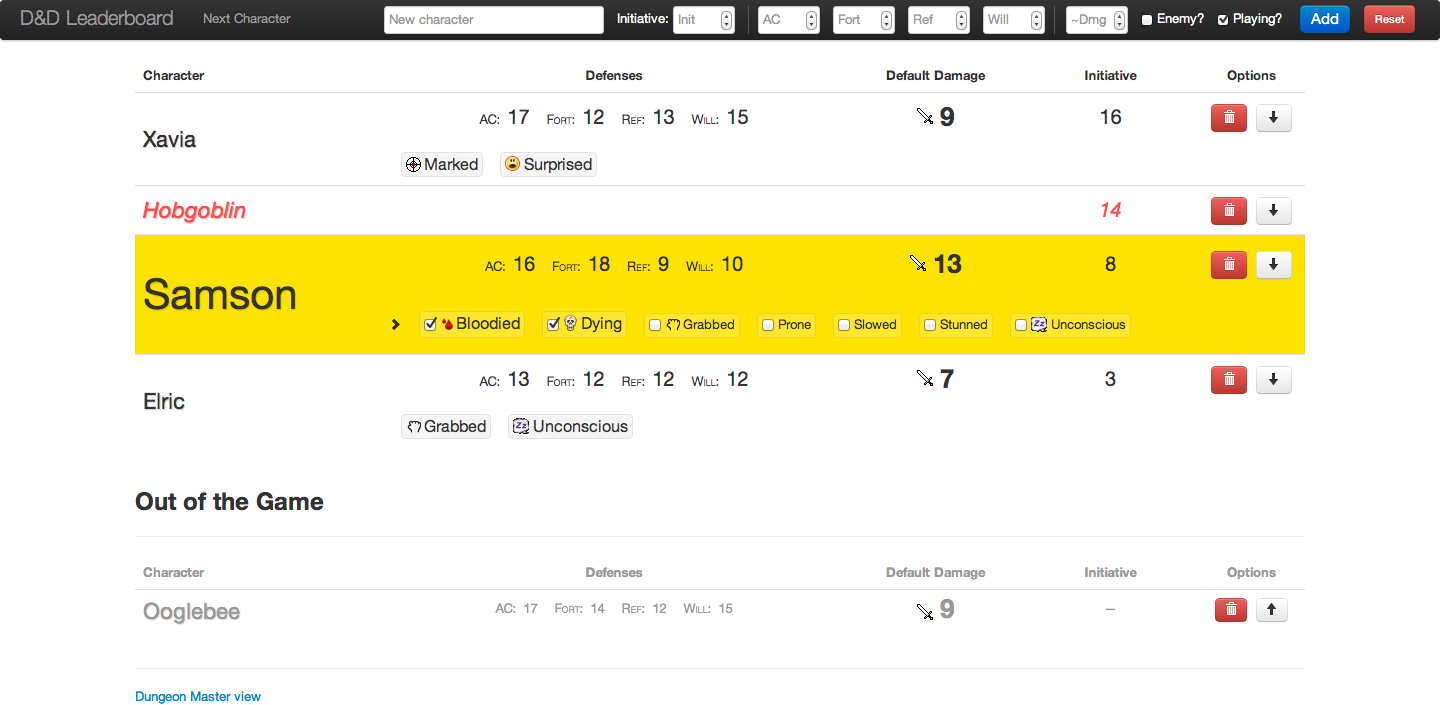
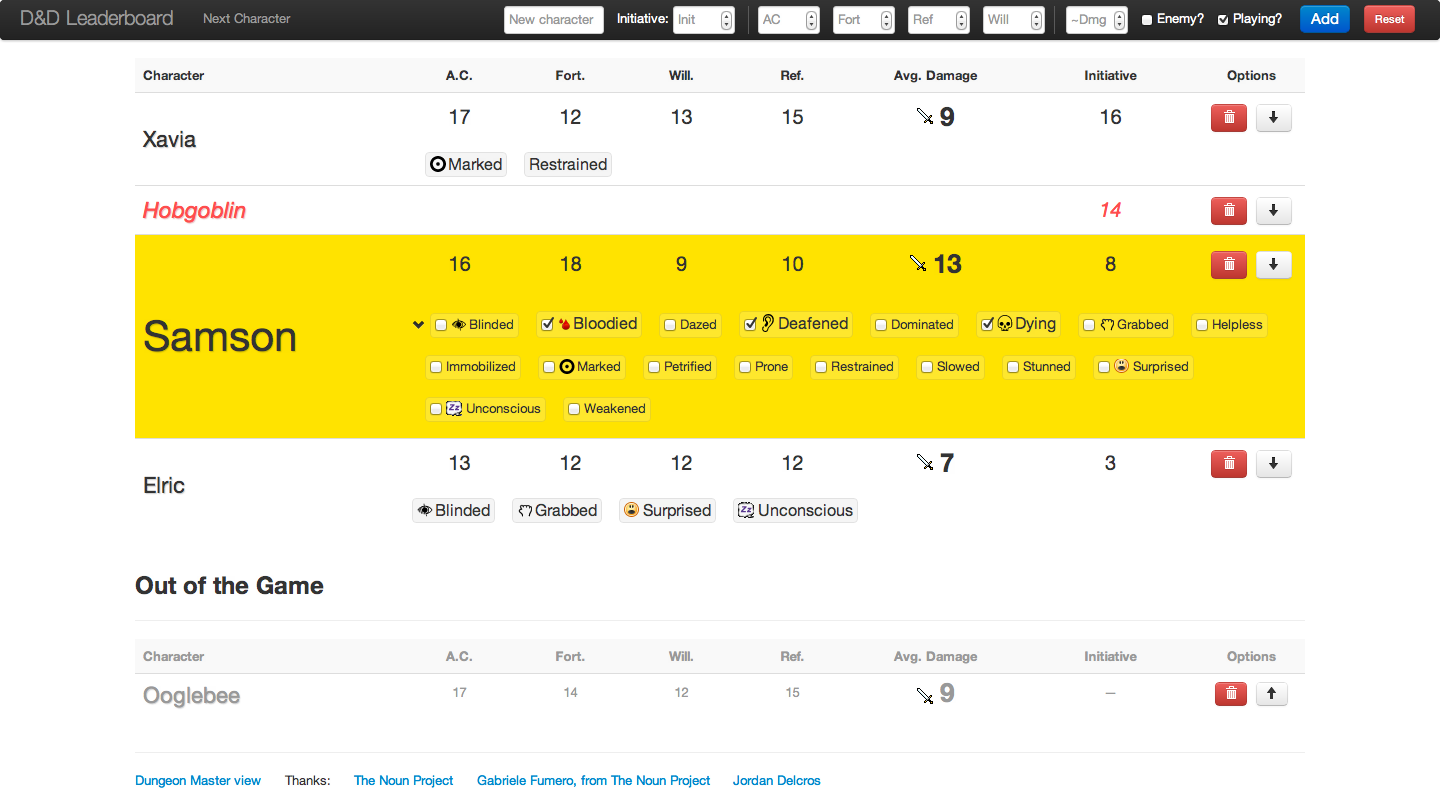
Adding DM view screenshot
Also updating regular screenshot.

diff --git a/README.md b/README.md
@@ -1,6 +1,12 @@
 # Dungeons and Dragons Leaderboard
 
+View for regular players:
+
 ![Dungeons and Dragons Leaderboard in Chrome](https://raw.github.com/joekr/D-D-Leaderboard/master/screenshot-1.png "Viewed in Chrome")
+
+View for the Dungeon Master:
+
+![Dungeons and Dragons Leaderboard in Chrome](https://raw.github.com/joekr/D-D-Leaderboard/master/screenshot-2.png "Dungeon Master view in Chrome")
 
 See [Handlebars](http://handlebarsjs.com/) for the template system.  See also [Meteor documentation](http://docs.meteor.com/).
 
